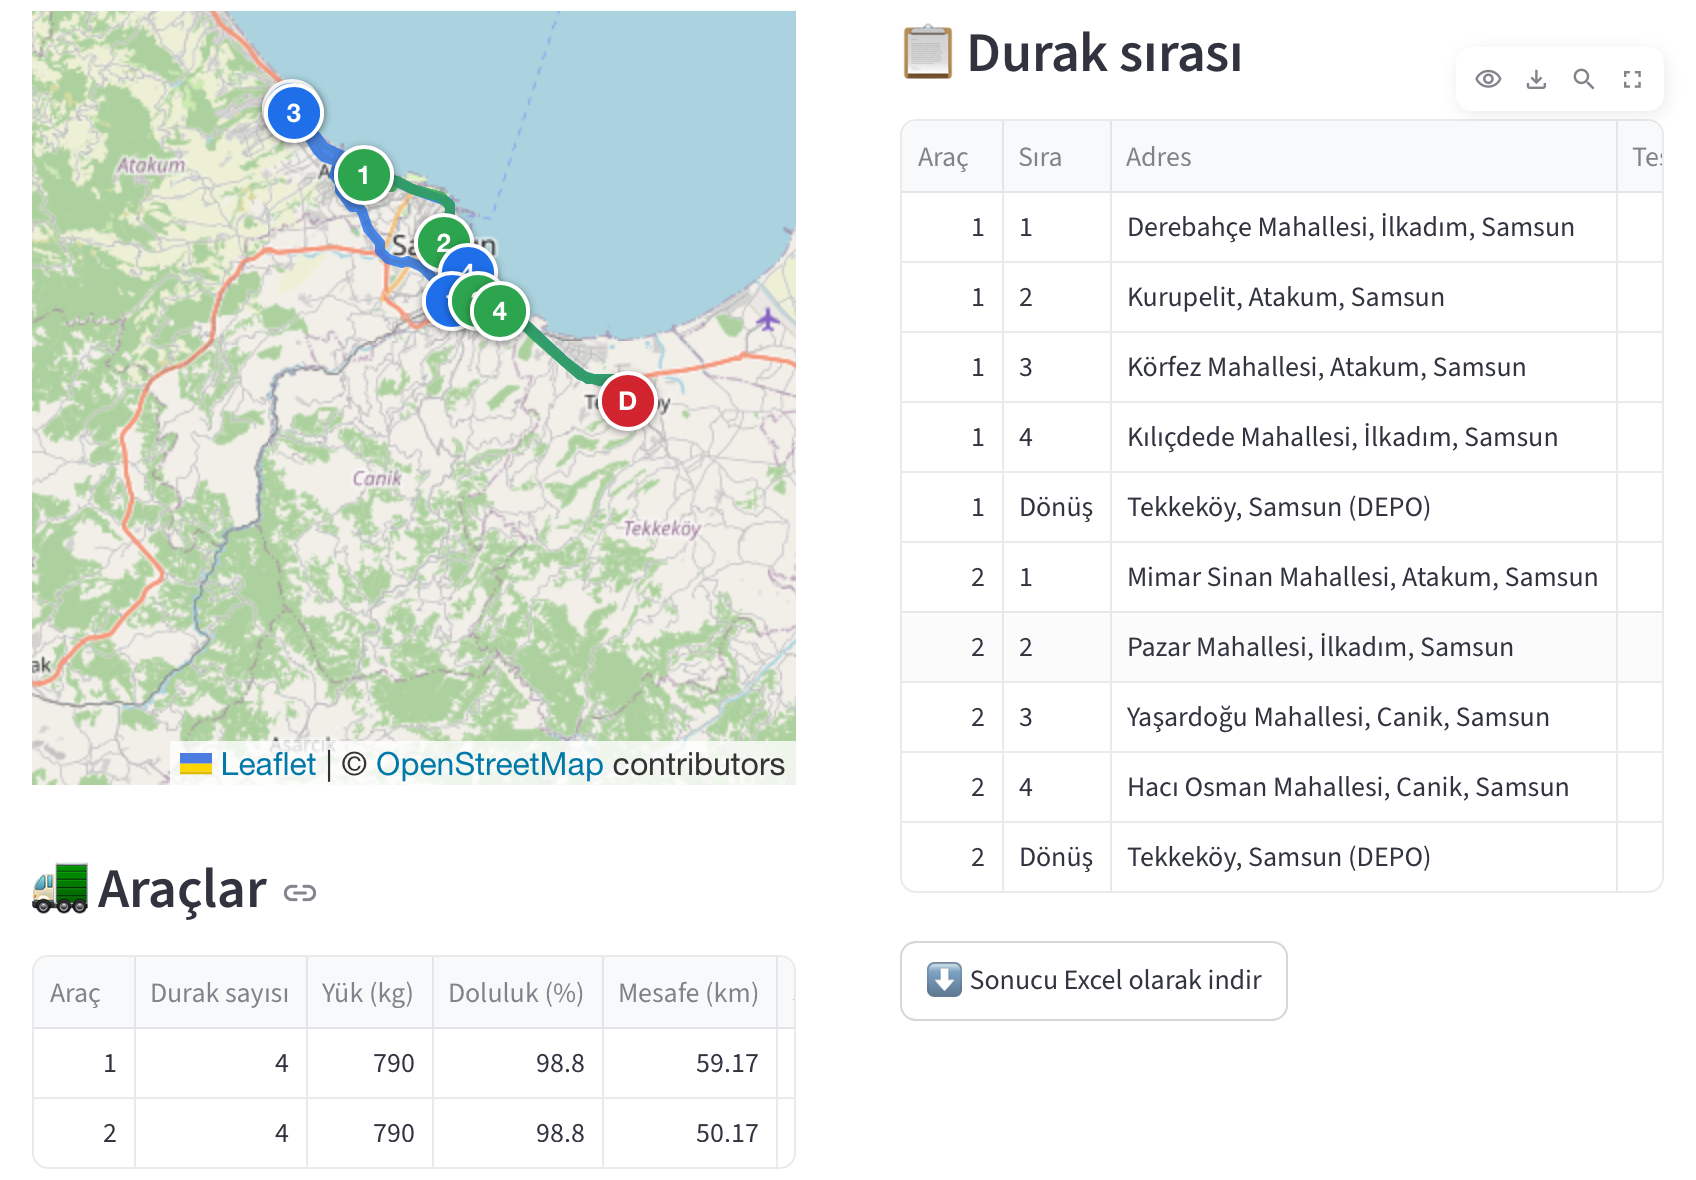
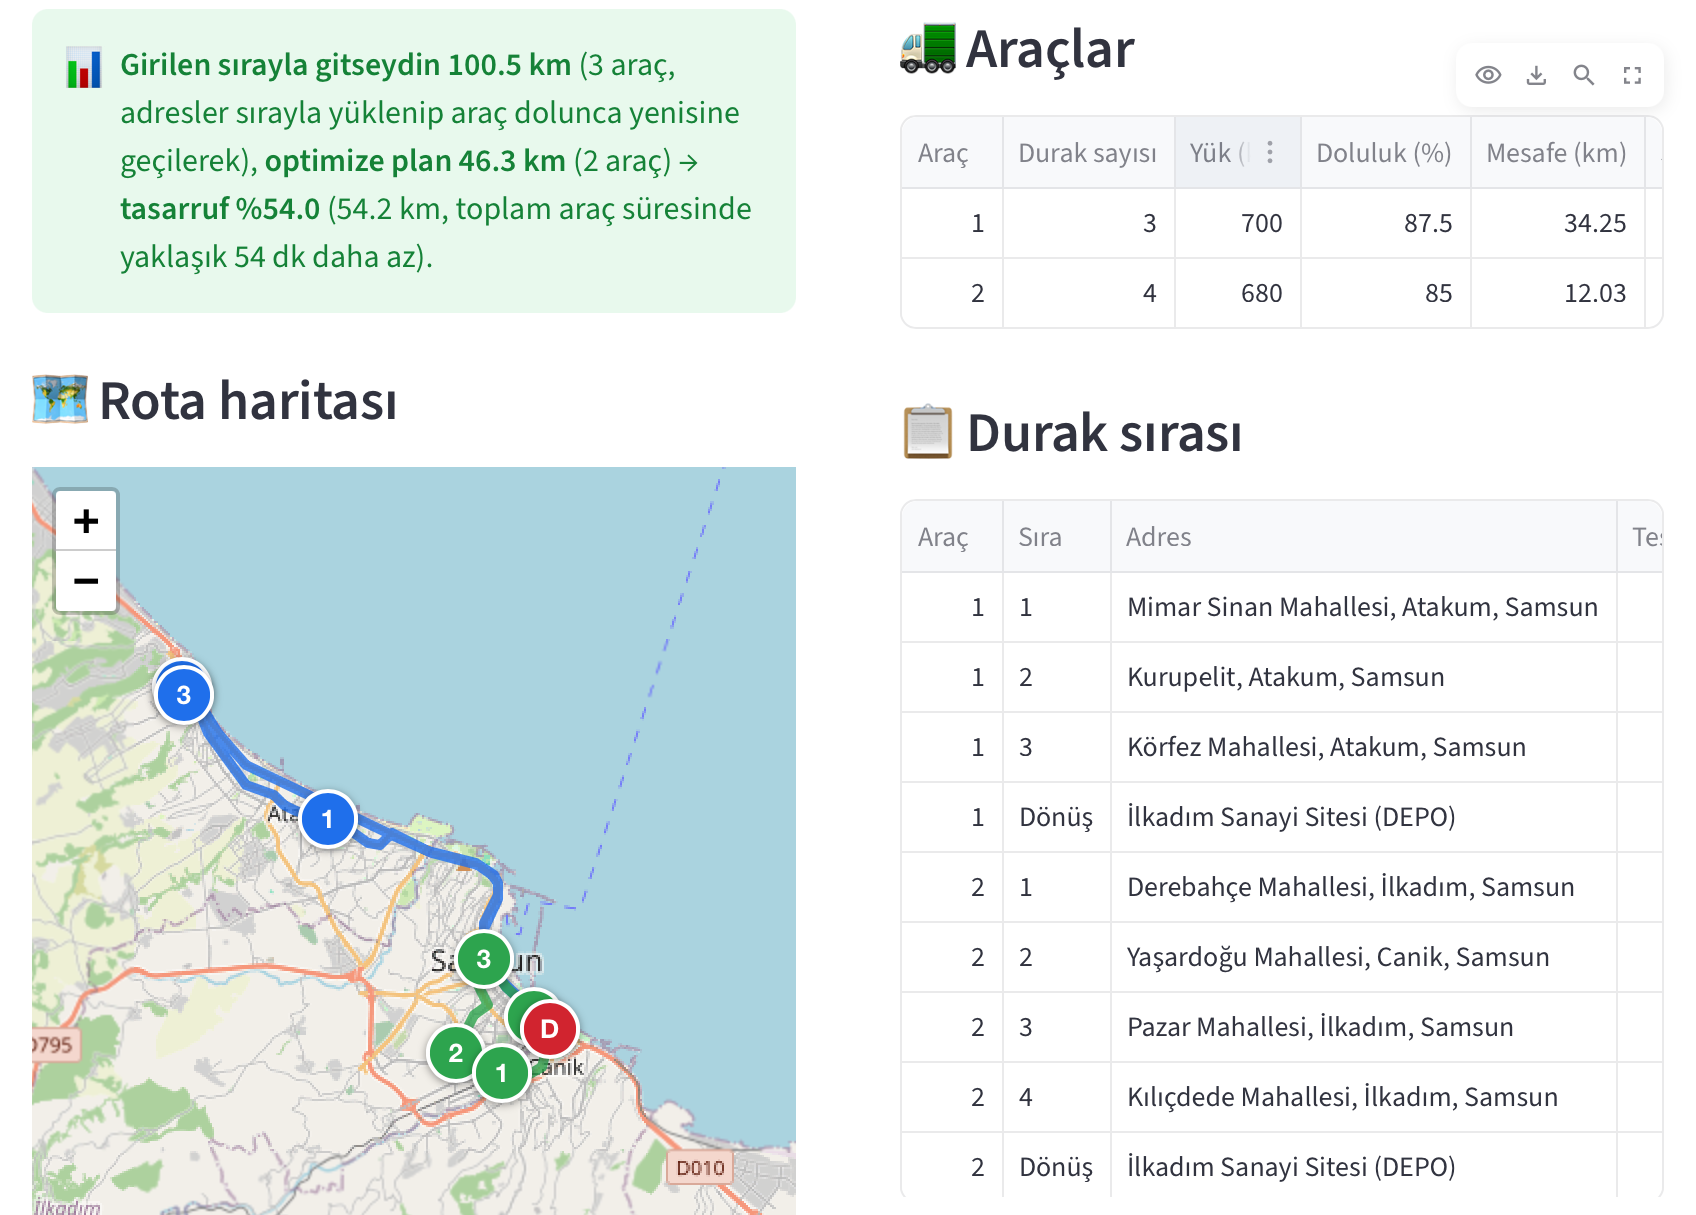
Örnek veriler gerçek koordinatlarla sabitlendi, yaklaşık yedek koordinatlar kaldırıldı
- Depo: İlkadım Sanayi Sitesi; 7 durak Nominatim'in bulduğu koordinatlarla
- README: gerçek OSRM sonucu (100,5 km / 3 araç → 46,3 km / 2 araç, %54) ve yeni ekran görüntüsü

Claude-Session: https://claude.ai/code/session_01EJbo5eFJ6ZdekcFSmM6wWH

diff --git a/ornek_veriler.py b/ornek_veriler.py
@@ -1,38 +1,26 @@
 """Uygulama açıldığında hazır gelen Samsun örnek verileri.
 
-Adresler bilerek "karışık" sırada yazıldı: böylece optimize rotanın
-girilen sıraya göre ne kadar tasarruf sağladığı net görülür.
+Tüm konumlar "İsim (enlem, boylam)" biçiminde koordinatlıdır: depo Google Haritalar'dan,
+duraklar Nominatim'in bulduğu konumlardan alındı ve haritada gözle doğrulandı.
+Böylece demo, konum servislerine hiç sormadan her açılışta aynı sonucu verir.
+
+Adresler bilerek "karışık" sırada yazıldı: böylece optimize planın girilen
+sıraya göre ne kadar tasarruf sağladığı net görülür.
 """
 
-ORNEK_DEPO = "Tekkeköy, Samsun"
+ORNEK_DEPO = "İlkadım Sanayi Sitesi (41.2767769, 36.3540910)"
 
 ORNEK_ADRESLER = [
-    "Kurupelit, Atakum, Samsun",
-    "Yaşardoğu Mahallesi, Canik, Samsun",
-    "Pazar Mahallesi, İlkadım, Samsun",
-    "Körfez Mahallesi, Atakum, Samsun",
-    "Hacı Osman Mahallesi, Canik, Samsun",
-    "Derebahçe Mahallesi, İlkadım, Samsun",
-    "Mimar Sinan Mahallesi, Atakum, Samsun",
-    "Kılıçdede Mahallesi, İlkadım, Samsun",
+    "Kurupelit, Atakum, Samsun (41.364953, 36.227516)",
+    "Yaşardoğu Mahallesi, Canik, Samsun (41.270690, 36.321581)",
+    "Pazar Mahallesi, İlkadım, Samsun (41.295010, 36.331358)",
+    "Körfez Mahallesi, Atakum, Samsun (41.362762, 36.228211)",
+    "Derebahçe Mahallesi, İlkadım, Samsun (41.265636, 36.337348)",
+    "Mimar Sinan Mahallesi, Atakum, Samsun (41.330907, 36.277384)",
+    "Kılıçdede Mahallesi, İlkadım, Samsun (41.279967, 36.348052)",
 ]
 
-# Her adresin teslimat miktarı (kg). Toplam 1580 kg; 800 kg'lık araçla en az 2 araç gerekir.
-ORNEK_TALEPLER = [180, 250, 120, 300, 200, 150, 220, 160]
+# Her adresin teslimat miktarı (kg). Toplam 1380 kg; 800 kg'lık araçla en az 2 araç gerekir.
+ORNEK_TALEPLER = [180, 250, 120, 300, 150, 220, 160]
 ORNEK_KAPASITE_KG = 800
 ORNEK_ARAC_SAYISI = 3
-
-# Nominatim'e ulaşılamazsa (internet yok, servis yoğun vb.) demo yine
-# çalışsın diye örnek adreslerin YAKLAŞIK koordinatları (enlem, boylam).
-# Normal durumda bu değerler kullanılmaz; gerçek sonuç Nominatim'den gelir.
-YEDEK_KOORDINATLAR = {
-    "Tekkeköy, Samsun": (41.2125, 36.4565),
-    "Kurupelit, Atakum, Samsun": (41.3640, 36.2200),
-    "Yaşardoğu Mahallesi, Canik, Samsun": (41.2650, 36.3550),
-    "Pazar Mahallesi, İlkadım, Samsun": (41.2900, 36.3330),
-    "Körfez Mahallesi, Atakum, Samsun": (41.3230, 36.2870),
-    "Hacı Osman Mahallesi, Canik, Samsun": (41.2600, 36.3700),
-    "Derebahçe Mahallesi, İlkadım, Samsun": (41.2810, 36.3200),
-    "Mimar Sinan Mahallesi, Atakum, Samsun": (41.3340, 36.2660),
-    "Kılıçdede Mahallesi, İlkadım, Samsun": (41.2880, 36.3270),
-}

diff --git a/app.py b/app.py
@@ -15,7 +15,7 @@ import mesafe
 import optimizasyon
 import rapor
 from ornek_veriler import (ORNEK_ADRESLER, ORNEK_ARAC_SAYISI, ORNEK_DEPO, ORNEK_KAPASITE_KG,
-                           ORNEK_TALEPLER, YEDEK_KOORDINATLAR)
+                           ORNEK_TALEPLER)
 
 MIN_ADRES, MAX_ADRES = 3, 15
 MAX_ARAC = 5
@@ -36,7 +36,6 @@ def rotayi_hesapla(depo, adresler, talepler, kapasite, arac_sayisi, servis_sures
     cubuk = st.progress(0.0, text="Adresler koordinata çevriliyor…")
     noktalar = geocoding.toplu_koordinat(
         tum_adresler,
-        yedek_koordinatlar=YEDEK_KOORDINATLAR,
         ilerleme=lambda i, n, adres: cubuk.progress(i / n, text=f"Konum aranıyor ({i}/{n}): {adres}"),
     )
     cubuk.empty()
@@ -209,10 +208,6 @@ if not sonuc:
 if sonuc["bulunamayanlar"]:
     st.warning("Bulunamadığı için rotaya eklenmeyen adresler: " + ", ".join(sonuc["bulunamayanlar"]) +
                ". Daha açık yazmayı (ör. 'Mahalle, İlçe, İl') veya koordinat girmeyi deneyin.")
-yaklasiklar = [n["adres"] for n in sonuc["noktalar"] if n["kaynak"] == "yedek"]
-if yaklasiklar:
-    st.warning("Konum servisleri bu örnek adresleri o an bulamadığı/cevap vermediği için kayıtlı **yaklaşık** "
-               "koordinatlar kullanıldı: " + ", ".join(yaklasiklar))
 if sonuc["matris"]["kaynak"] == "tahmini":
     st.warning("Yol mesafesi servisine (OSRM) ulaşılamadı; mesafeler kuş uçuşu × "
                f"{mesafe.YOL_KATSAYISI} ile **tahmini** hesaplandı.")
@@ -290,7 +285,6 @@ with st.expander("📍 Bulunan konumlar (koordinatlı, kopyalanabilir)"):
         isim = n["adres"]
         if geocoding.koordinat_metni_coz(isim):  # yalnızca koordinat girilmişse okunur bir ad ver
             isim = "Depo" if i == 0 else f"Durak {i}"
-        not_ = "   # yaklaşık konum, kontrol edin" if n["kaynak"] == "yedek" else ""
-        satirlar.append(f"{isim} ({n['enlem']:.6f}, {n['boylam']:.6f}){not_}")
+        satirlar.append(f"{isim} ({n['enlem']:.6f}, {n['boylam']:.6f})")
     st.caption("İlk satır depo. Sağ üstteki simgeyle kopyalayabilirsiniz.")
     st.code("\n".join(satirlar), language=None)

diff --git a/geocoding.py b/geocoding.py
@@ -167,26 +167,20 @@ def adres_koordinat(adres, zaman_asimi=10):
         return sonuc
 
 
-def toplu_koordinat(adresler, yedek_koordinatlar=None, ilerleme=None):
+def toplu_koordinat(adresler, ilerleme=None):
     """Birden fazla adresi sırayla koordinata çevirir.
 
-    yedek_koordinatlar: {adres: (enlem, boylam)} — servisler bulamazsa/ulaşılamazsa kullanılır.
     ilerleme: her adresten sonra ilerleme(i, toplam, adres) şeklinde çağrılan fonksiyon.
 
     Dönüş: her adres için {"adres", "enlem", "boylam", "bulunan_adres", "kaynak"} sözlüğü.
-           "kaynak" = "nominatim", "photon", "koordinat", "yedek" veya "bulunamadi".
+           "kaynak" = "nominatim", "photon", "koordinat" veya "bulunamadi".
     """
-    yedek_koordinatlar = yedek_koordinatlar or {}
     sonuclar = []
     for i, adres in enumerate(adresler):
         try:
             bulunan = adres_koordinat(adres)
         except requests.RequestException:
             bulunan = None
-
-        if bulunan is None and adres in yedek_koordinatlar:
-            enlem, boylam = yedek_koordinatlar[adres]
-            bulunan = {"enlem": enlem, "boylam": boylam, "bulunan_adres": adres + " (yaklaşık)", "kaynak": "yedek"}
 
         bos = {"enlem": None, "boylam": None, "bulunan_adres": None, "kaynak": "bulunamadi"}
         sonuclar.append({"adres": adres, **(bulunan or bos)})

diff --git a/tests/test_geocoding.py b/tests/test_geocoding.py
@@ -114,8 +114,9 @@ def test_isimli_koordinat_ismi_korur_ve_servise_gidilmez():
     assert geocoding.koordinat_metni_coz("Depo (abc)") is None
 
 
-def test_ag_hatasinda_yedek_koordinat_kullanilir():
+def test_ag_hatasinda_adres_bulunamadi_olarak_isaretlenir():
     with mock.patch("geocoding.requests.get", side_effect=requests.ConnectionError):
-        sonuclar = geocoding.toplu_koordinat(["Depo"], yedek_koordinatlar={"Depo": (41.0, 36.0)})
-    assert sonuclar[0]["kaynak"] == "yedek"
-    assert (sonuclar[0]["enlem"], sonuclar[0]["boylam"]) == (41.0, 36.0)
+        sonuclar = geocoding.toplu_koordinat(["Atakum, Samsun", "Depo (41.0, 36.0)"])
+    assert sonuclar[0]["kaynak"] == "bulunamadi"
+    # Koordinatlı giriş ağ olmasa da çalışır
+    assert (sonuclar[1]["kaynak"], sonuclar[1]["enlem"]) == ("koordinat", 41.0)

diff --git a/README.md b/README.md
@@ -24,8 +24,17 @@ Bu uygulama:
 - Sonucu haritada numaralı duraklarla, tabloda ve Excel dosyasında verir,
 - "Girilen sırayla gitseydin **X km**, optimize rota **Y km**, tasarruf **%Z**" karşılaştırmasıyla kazancı gösterir.
 
-Samsun örneğinde (Tekkeköy deposu, 8 mahalle) tek araçla adresleri yazıldığı sırayla gezmek **126,0 km**, optimize rota ise **63,8 km**: **%49,4 tasarruf** (yaklaşık 1 saat daha az yol).
-Aynı adreslere toplam 1580 kg teslimat ve 800 kg'lık araçlar verildiğinde (en az 2 araç gerekir), uygulama yükü araçlara paylaştırıp her aracın doluluk oranını gösterir.
+**Samsun örneği** (uygulama açılışta bununla gelir): İlkadım Sanayi Sitesi deposundan 7 mahalleye toplam **1380 kg** teslimat, araç kapasitesi **800 kg**, durak başı 5 dk teslim süresi.
+Sonuçlar gerçek yol verisiyle (OSRM) hesaplandı:
+
+| | Elle planlama (girilen sıra) | Optimize plan |
+|---|---|---|
+| Toplam mesafe | 100,5 km | **46,3 km** |
+| Araç sayısı | 3 | **2** |
+| Ortalama doluluk | %58 | **%86** |
+| Toplam araç süresi | 136,5 dk | **82,4 dk** |
+
+→ **%54 daha az km**, **1 araç daha az** ve yaklaşık **54 dakika** daha az araç süresi.
 
 ## ⚙ Nasıl çalışır? (adım adım mantık)
 
